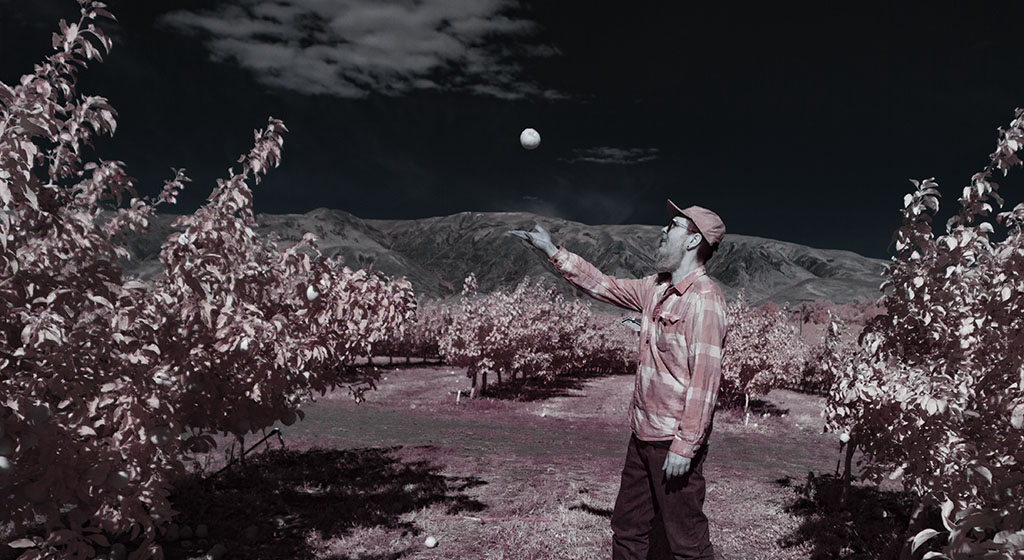
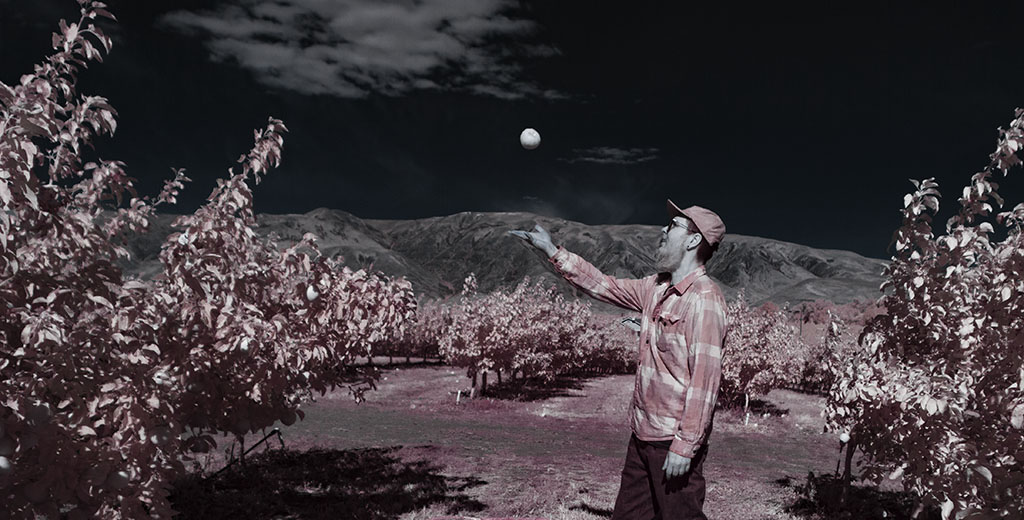
Mobile fixes

diff --git a/src/About.tsx b/src/About.tsx
@@ -18,6 +18,7 @@ function About() {
               height={36}
             />
           </Link>
+
           <Link
             to="/"
             className="text-3xl font-large flex flex-row content-center justify-center"
@@ -26,18 +27,21 @@ function About() {
               Phil Takes Photos
             </h1>
           </Link>
+
           <h2 className="text-xl font-large flex flex-row text-center">
             capturing the surreal and the serene
           </h2>
-          <div className="flex flex-row ">
-            <div className="shadow-md shadow-black-950/10 p-2 items-center flex flex-col">
-              <div className=" text-xl font-large flex flex-row mt-2 text-center rounded-sm pl-10 pr-40 pt-10 pb-20 bg-[url(/about-me.jpg)] bg-cover h-[260px] w-lg">
-                <div className="text-xl font-large font-bold flex flex-row mt-2 text-center bg-neutral-50 text-neutral-600 pl-5 pr-5 h-fit">
-                  Phil
+
+          <div className="flex lg:flex-row flex-col">
+            <div className="shadow-md shadow-black-950/10 p-2 flex flex-col">
+              <div className=" text-xl font-large flex flex-row mt-2 rounded-sm pl-2 sm:pl-10 pr-40 pt-2 pb-20 bg-[url(/about-me.jpg)] bg-cover bg-top-right md:bg-center h-[260px] sm:w-sm">
+                <div className="text-xl font-large font-bold flex flex-row mt-2 bg-neutral-50 text-neutral-600 pl-3 pr-5 h-fit">
+                  About Phil
                 </div>
               </div>
             </div>
-            <div className="flex sm:flex-row pt-4 pb-12 pl-12">
+
+            <div className="flex pt-4 pb-12 pl-1">
               <p>
                 My journey as a photographer began in my youth, exploring the
                 streets of Seattle with a growing passion for analog
@@ -56,8 +60,9 @@ function About() {
               </p>
             </div>
           </div>
-          <div className="flex flex-row ">
-            <div className="flex flex-row pt-4 pr-12">
+
+          <div className="flex lg:flex-row flex-col-reverse items-center">
+            <div className="flex pt-4 pr-1">
               <p>
                 Infrared photography captures light that lies beyond the visible
                 spectrum—specifically infrared wavelengths that the human eye
@@ -71,8 +76,9 @@ function About() {
                 exists all around us but remains invisible to ordinary
               </p>
             </div>
-            <div className="shadow-md shadow-black-950/10 p-2 flex flex-col">
-              <div className=" text-xl font-large flex  mt-2 rounded-sm  pl-10 mr-0 pt-10 pb-20 bg-[url(/about-ir.jpg)] bg-cover h-[260px] w-lg">
+
+            <div className="shadow-md shadow-black-950/10 p-2">
+              <div className=" text-xl font-large flex mt-2 rounded-sm  pl-10 pr-40 pt-10 pb-20 bg-[url(/about-ir.jpg)] bg-cover h-[260px] sm:w-sm">
                 <div className="text-xl font-large font-bold flex flex-row mt-2 text-left bg-neutral-50 text-neutral-600 pl-5 pr-5 h-fit">
                   Infrared
                 </div>

diff --git a/src/Home.tsx b/src/Home.tsx
@@ -14,14 +14,17 @@ function Home() {
             height={36}
             className="text-3xl font-large flex flex-row content-center"
           />
+
           <h1 className="text-3xl font-large flex flex-row">
             Phil Takes Photos
           </h1>
-          <h2 className="text-xl font-large flex flex-row  text-center">
+
+          <h2 className="text-xl font-large flex flex-row text-center">
             capturing the surreal and the serene
           </h2>
-          <div className="flex flex-row">
-            <Link to={"/galleries"}>
+
+          <div className="flex flex-col sm:flex-row">
+            <Link to={"/galleries"} className="flex flex-row">
               <div className="shadow-md shadow-black-950/10 p-2 transform transition duration-300 hover:scale-102">
                 <div className=" text-xl font-large flex flex-row mt-2 text-center rounded-sm pl-10 pr-40 pt-10 pb-20 bg-[url(/hero-1.png)] bg-cover">
                   <div className="text-xl font-large font-bold flex flex-row mt-2 text-center bg-neutral-50 pl-5 pr-5">
@@ -31,10 +34,10 @@ function Home() {
               </div>
             </Link>
 
-            <Link to={"/about"}>
+            <Link to={"/about"} className="flex flex-row">
               <div className="shadow-md shadow-black-950/10 p-2 transform transition duration-300 hover:scale-102">
                 <div className=" text-xl font-large flex flex-row mt-2 text-center rounded-sm pl-10 pr-40 pt-10 pb-20 bg-[url(/about-me.jpg)] bg-cover">
-                  <div className="text-xl font-large font-bold flex flex-row mt-2 text-center bg-neutral-50 pl-5 pr-5">
+                  <div className="text-xl font-large font-bold flex flex-row mt-2 text-center bg-neutral-50 pl-5 pr-5 ml-3 mr-2">
                     About
                   </div>
                 </div>
